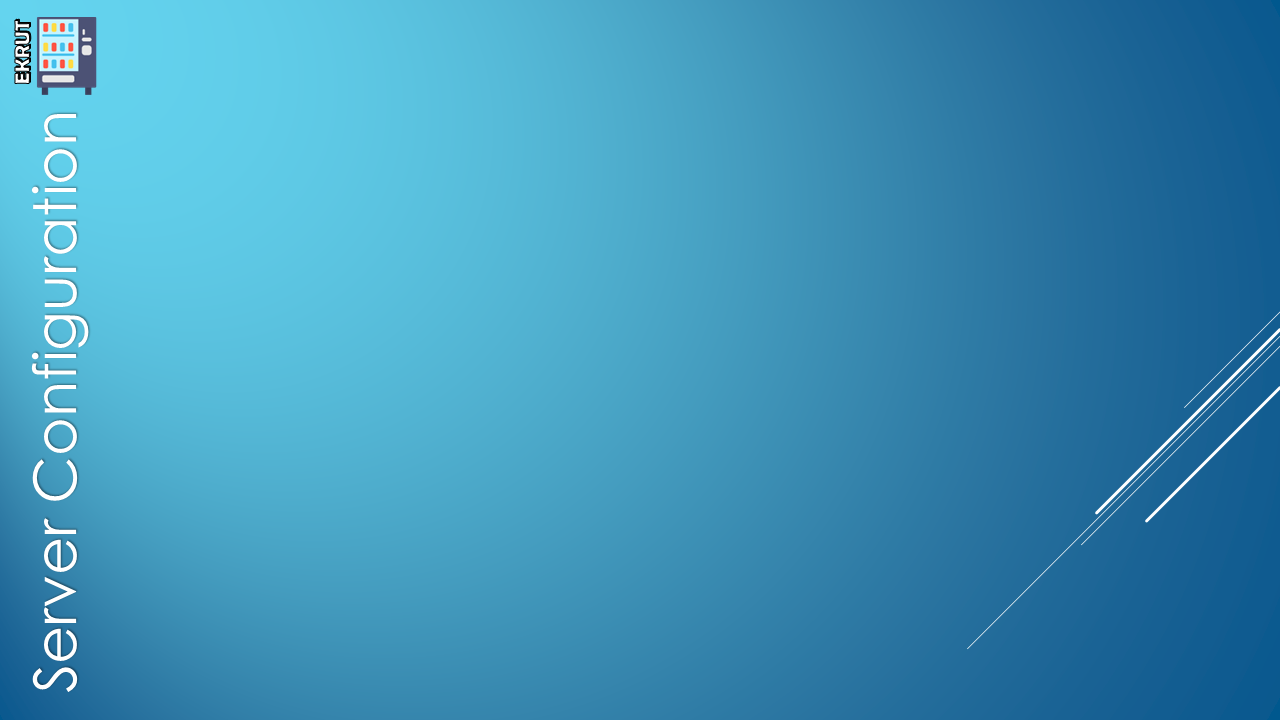
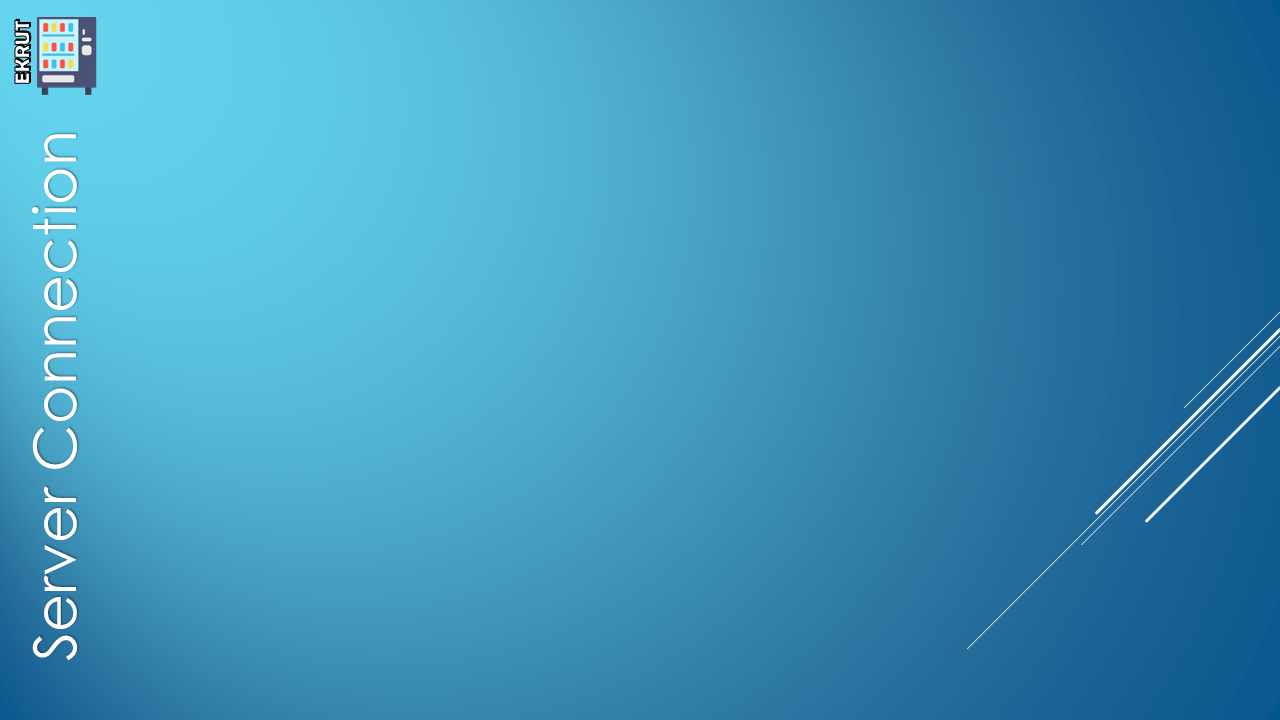
update ClientMenu and ServerProt

Changed region(s): [[0.0, 0.1528, 0.0938, 0.9778]]

diff --git a/Client/src/gui/ClientMenuController.java b/Client/src/gui/ClientMenuController.java
@@ -1,8 +1,11 @@
 package gui;
 
+import java.awt.Button;
 import java.io.IOException;
 import java.net.Inet4Address;
+import java.net.URL;
 import java.net.UnknownHostException;
+import java.util.ResourceBundle;
 
 import Entities.Message;
 import Entities.MessageType;
@@ -10,63 +13,86 @@ import controller.ClientController;
 import javafx.event.ActionEvent;
 import javafx.fxml.FXML;
 import javafx.fxml.FXMLLoader;
+import javafx.fxml.Initializable;
 import javafx.scene.Parent;
 import javafx.scene.Scene;
 import javafx.scene.control.TextField;
+import javafx.scene.image.Image;
+import javafx.scene.image.ImageView;
+import javafx.scene.layout.AnchorPane;
+import javafx.scene.layout.Background;
+import javafx.scene.layout.BackgroundImage;
+import javafx.scene.layout.BackgroundPosition;
+import javafx.scene.layout.BackgroundRepeat;
+import javafx.scene.layout.BackgroundSize;
 import javafx.stage.Stage;
 
-public class ClientMenuController {
-	
+public class ClientMenuController implements Initializable {
+
 	public static ClientController clientControl;
-	
-	public  static SubscriberFrameController subFrame; //?
-	
-	public  static LoginFrameController loginFrame;
-	
-	public  static OrderFrameController orderFrame;
+
+	public static LoginFrameController loginFrame;
+
+	public static OrderFrameController orderFrame;
 
 	public static Stage clientStage;
+
+	@FXML
+	private AnchorPane pane;
+
+	@FXML
+	private TextField txtIp;
+
+	@FXML
+	private TextField txtPort;
 	
-    @FXML
-    private TextField txtIp;
+	@FXML
+	private ImageView imgClient;
 
-    @FXML
-    private TextField txtPort;
+	/**
+	 * Creates new frame LoginFrameController and connect to server.
+	 * 
+	 * @param event (Click on Connect button)
+	 * @throws UnknownHostException
+	 */
+	@FXML
+	void connectClient(ActionEvent event) throws UnknownHostException {
 
-    /**
-     * Creates new frame LoginFrameController and connect to server. 
-     * @param event (Click on connect button)
-     * @throws UnknownHostException
-     */
-    @FXML
-    void connectClient(ActionEvent event) throws UnknownHostException {
-    	
-    	String Ip = txtIp.getText();
-    	
-    	int Port = Integer.parseInt(txtPort.getText()); // need To test if the arguments are empty
-    	
+		String Ip = txtIp.getText();
+
+		int Port = Integer.parseInt(txtPort.getText()); // need To test if the arguments are empty
+
 		clientControl = new ClientController(Ip, Port);
 		loginFrame = new LoginFrameController();
 		orderFrame = new OrderFrameController();
-		Message m = new Message(MessageType.connected,Inet4Address.getLocalHost().getHostAddress());
-		ClientMenuController.clientControl.accept(m);
-		//ClientMenuController.clientControl.accept(("connected%"+(Inet4Address.getLocalHost().getHostAddress())));
+		Message msg = new Message(MessageType.connected, Inet4Address.getLocalHost().getHostAddress());
+		ClientMenuController.clientControl.accept(msg);
 		try {
-				loginFrame.start(clientStage);
+			loginFrame.start(clientStage);
 		} catch (IOException e) {
-			
+
 			e.printStackTrace();
-		} //send to UI
-		
-    }
-    
-    public void start(Stage primaryStage) throws IOException{
-    	clientStage = primaryStage;
-    	primaryStage.setTitle("Ekrut - Client");
+		} // send to UI
+
+	}
+
+	public void start(Stage primaryStage) throws IOException {
+		clientStage = primaryStage;
+		primaryStage.setTitle("Ekrut - Client Connection");
 		Parent root = FXMLLoader.load(getClass().getResource("/gui/ClientMenu.fxml"));
 		Scene home = new Scene(root);
 		primaryStage.setScene(home);
-		primaryStage.show(); 
-    }
+		primaryStage.show();
+	}
+
+	@Override
+	public void initialize(URL location, ResourceBundle resources) {
+		// initialize the background image
+		BackgroundSize backgroundSize = new BackgroundSize(pane.getPrefWidth(), pane.getPrefHeight(), true, true, true,
+				false);
+		BackgroundImage image = new BackgroundImage(new Image("images/ClientUiMenu.png"), BackgroundRepeat.NO_REPEAT,
+				BackgroundRepeat.NO_REPEAT, BackgroundPosition.DEFAULT, backgroundSize);
+		pane.setBackground(new Background(image));
+	}
 
 }

diff --git a/Server/src/gui/ServerPortFrameController.java b/Server/src/gui/ServerPortFrameController.java
@@ -74,10 +74,10 @@ public class ServerPortFrameController implements Initializable {
 	}
 
 	public void start(Stage primaryStage) throws IOException {
-		primaryStage.setTitle("Ekrut");
+		primaryStage.setTitle("Ekrut - Server Connection");
 		Parent root = FXMLLoader.load(getClass().getResource("/gui/ServerUiMenu.fxml"));
 		Scene home = new Scene(root);
-		primaryStage.setScene(home);
+		primaryStage.setScene(home); 
 		primaryStage.show();
 	}
 
@@ -92,7 +92,11 @@ public class ServerPortFrameController implements Initializable {
 				BackgroundRepeat.NO_REPEAT, BackgroundPosition.DEFAULT, backgroundSize);
 		pane.setBackground(new Background(image));
 	}
-
+	
+	/**
+	 *  Add text to the console area
+	 * @param str - the text to add
+	 */
 	public void appendToConsole(String str) {
 		consoleArea.appendText(str + "\n");
 

diff --git a/Client/src/gui/LoginFrameController.java b/Client/src/gui/LoginFrameController.java
@@ -52,8 +52,8 @@ public class LoginFrameController implements Initializable {
 	@FXML
 	private Label lblAlert;
 
-	@FXML
-	private ImageView loginImage;
+    @FXML
+    private ImageView imglogin;
 
 	@FXML
 	private TextField txtUserName;
